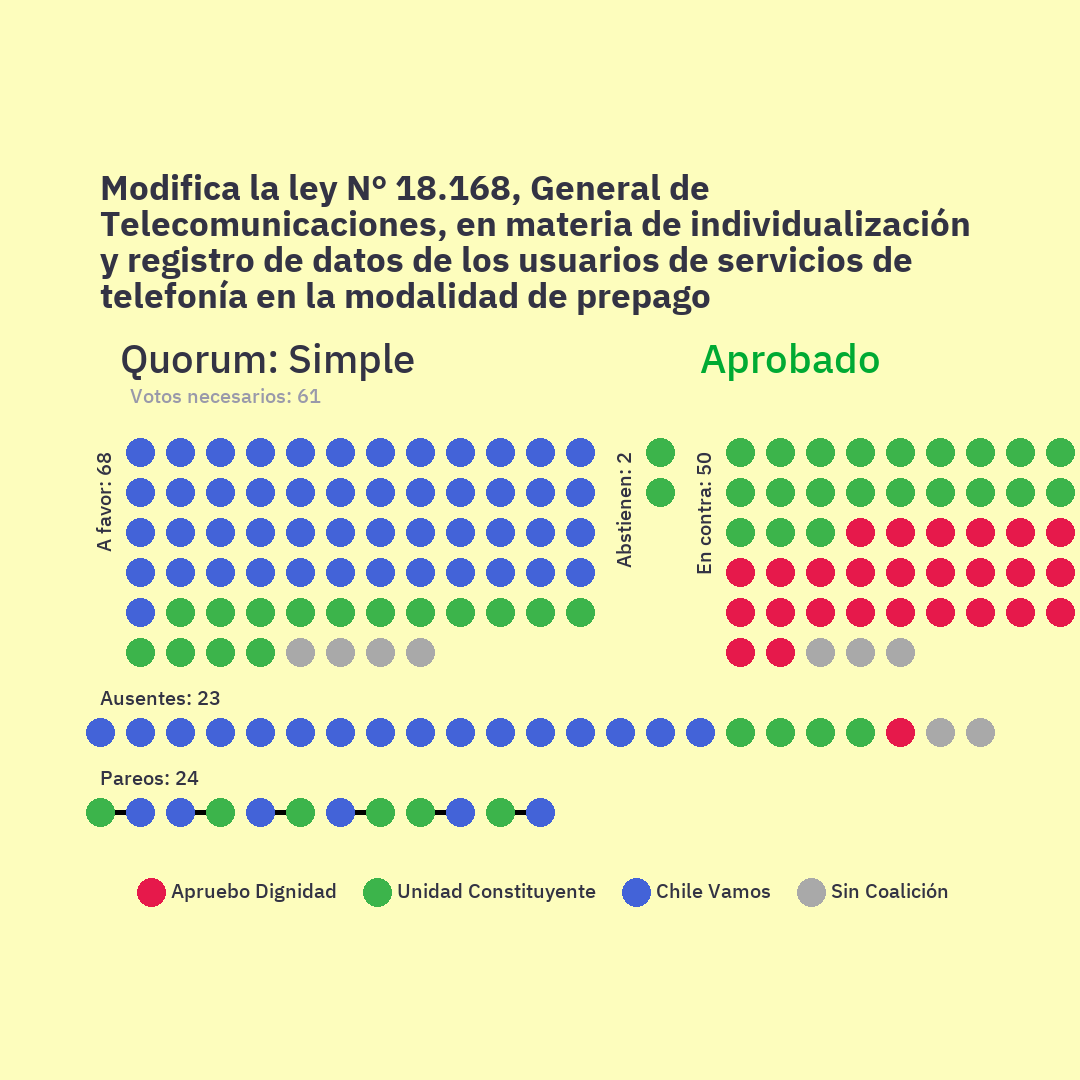
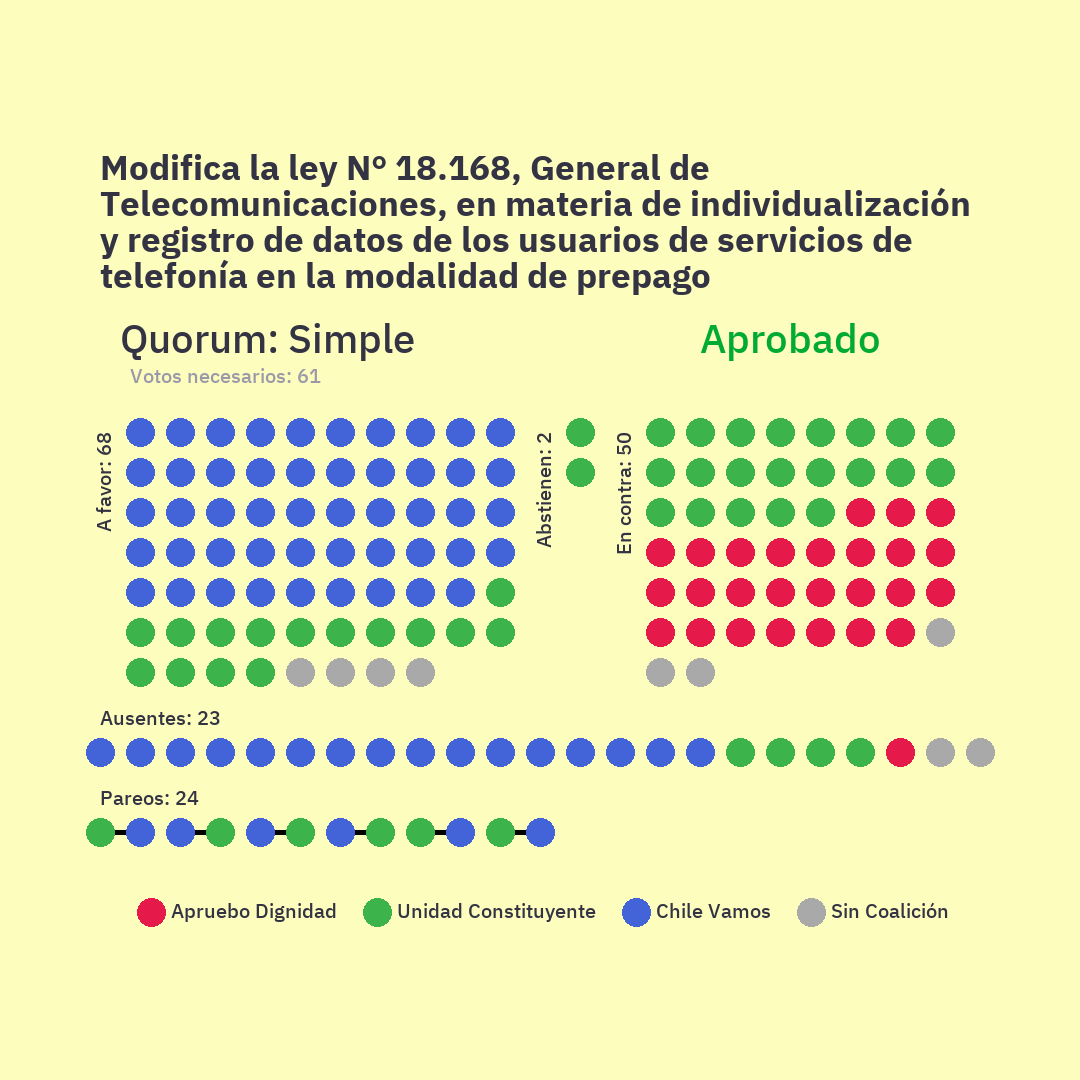
:bug: Soluciona error en número de columnas

Changed region(s): [[0.0611, 0.1222, 1.0, 0.8556]]

diff --git a/draw/draw.py b/draw/draw.py
@@ -6,7 +6,7 @@ Propósito del módulo: Abstraer la generación de gráficas a diferentes contex
 from palette import color_partido, color_coalicion, random_color
 from PIL import Image, ImageFont
 from image_utils import ImageDraw
-from math import ceil
+from math import floor, ceil
 import textwrap
 import sys
 import os
@@ -306,7 +306,7 @@ def create_image(titulo='', subtitulo='', resultado='', quorum='', nquorum=-1, g
         #   Horizontal
     total_colH = total_col - len(opcionesH)
     votosH = sum_votes((opcionesH,))
-    filas = ceil(votosH / total_colH)
+    filas = floor(votosH / total_colH) + 1
     iniX, iniY  = (global_iniX, global_iniY)
     endY_max = -1
     posX = [] # Guarda las posiciones de inicio y término de cada opción

diff --git a/diputados/main.py b/diputados/main.py
@@ -17,9 +17,9 @@ path_root = '/'.join(path_diputados.split('/')[:-1])
 
 if __name__ == "__main__":
 
-    votids = [36472, 36976, 36975, 36974, 36973]
+    #votids = [36472, 36976, 36975, 36974, 36973]
     #votids = api.get_votaciones_recientes()
-    #votids = [37007]
+    votids = [36997]
     if len(sys.argv) > 1:
             votids = [int(sys.argv[1])]
     
